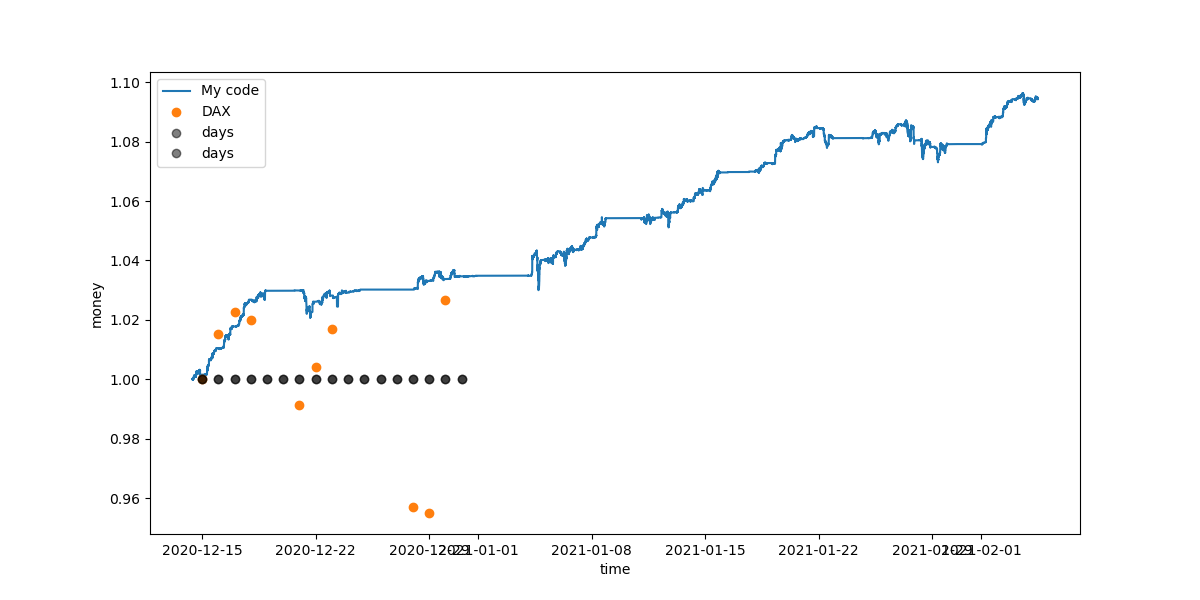
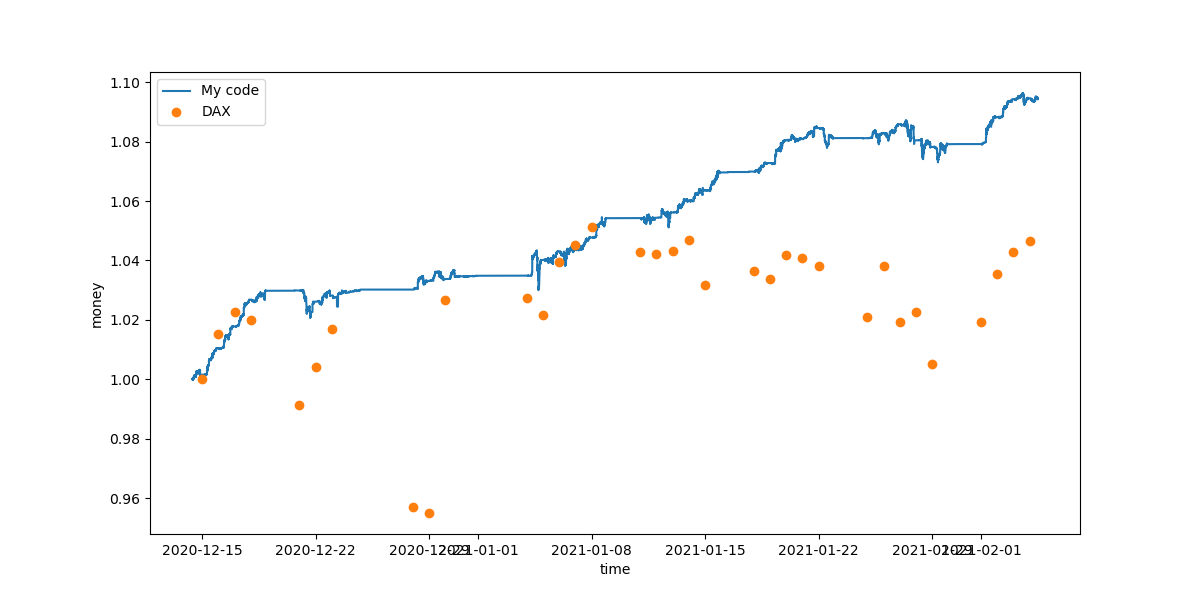
q

diff --git a/plotmoney.py b/plotmoney.py
@@ -23,6 +23,17 @@ print("read")
 tdax=[datetime.datetime(2020,12,i) for i in [15,16,17,18,21,22,23,28,29,30]]
 DAX=[13362.87,13565.98,13667.25,13630.51,13246.30,13418.11,13587.23,12790.29,12761.38,13718.78]
 
+tdax2=[datetime.datetime(2021,1,i) for i in [4,5,6,7,8,11,12,13,14,15,18,19,20,21,22,25,26,27,28,29]]
+DAX2=[13726.74,13651.22,13891.97,13968.24,14049.53,13936.66,13925.06,13939.71,13988.70,13787.73,13848.35,13815.16,13921.73,13906.67,13873.97,13643.95,13870.99,13620.46,13665.93,13432.87]
+for zw in tdax2:tdax.append(zw)
+for zw in DAX2:DAX.append(zw)
+
+tdax3=[datetime.datetime(2021,2,i) for i in [1,2,3,4]]
+DAX3=[13622.02,13835.16,13933.63,13982.96]
+for zw in tdax3:tdax.append(zw)
+for zw in DAX3:DAX.append(zw)
+
+
 DAX=[ac/DAX[0] for ac in DAX]
 
 
@@ -35,13 +46,13 @@ plt.figure(figsize=(12,6))
 plt.plot(times,values,label="My code")
 plt.plot(tdax,DAX,"o",label="DAX")
 
-alldays=[datetime.datetime(2020,12,i) for i in range(15,32)]
-plt.plot(alldays,[1 for x in alldays],"o",color="black",alpha=0.5,label="days")
+#alldays=[datetime.datetime(2020,12,i) for i in range(15,32)]
+#plt.plot(alldays,[1 for x in alldays],"o",color="black",alpha=0.5,label="days")
 
 # plt.axhline(alldays[0])
 
 # k=[plt.axhline(zw) for zw in alldays]
-plt.plot(np.array(alldays),[1 for x in alldays],"o",color="black",alpha=0.5,label="days")
+#plt.plot(np.array(alldays),[1 for x in alldays],"o",color="black",alpha=0.5,label="days")
 
 # for t in :
   # print(t)

diff --git a/README.md b/README.md
@@ -28,7 +28,7 @@ One explanaition why my code reaches so high values is plotted into the followin
 I think I keep it running, and update this if I dont forget;)
 
 Quick Update 4.02.2021:
-Currently at 1.0947, so not as good as one migth have hoped for, but still quite good. That being said, we are still corona affected, and it migth be interresting to see how this plays out post corona. I also rerun the plotting script, and as you see, the returns are quite consistent
+Currently at 1.0947, so not as good as one migth have hoped for, but still quite good. That being said, we are still corona affected, and it migth be interresting to see how this plays out post corona. I also rerun the plotting script, and as you see, the returns are quite consistent and I more than double the expected return compared to the dax in the same time. I also removed the black dots, since they are not that useful tbh.
 
 
 
